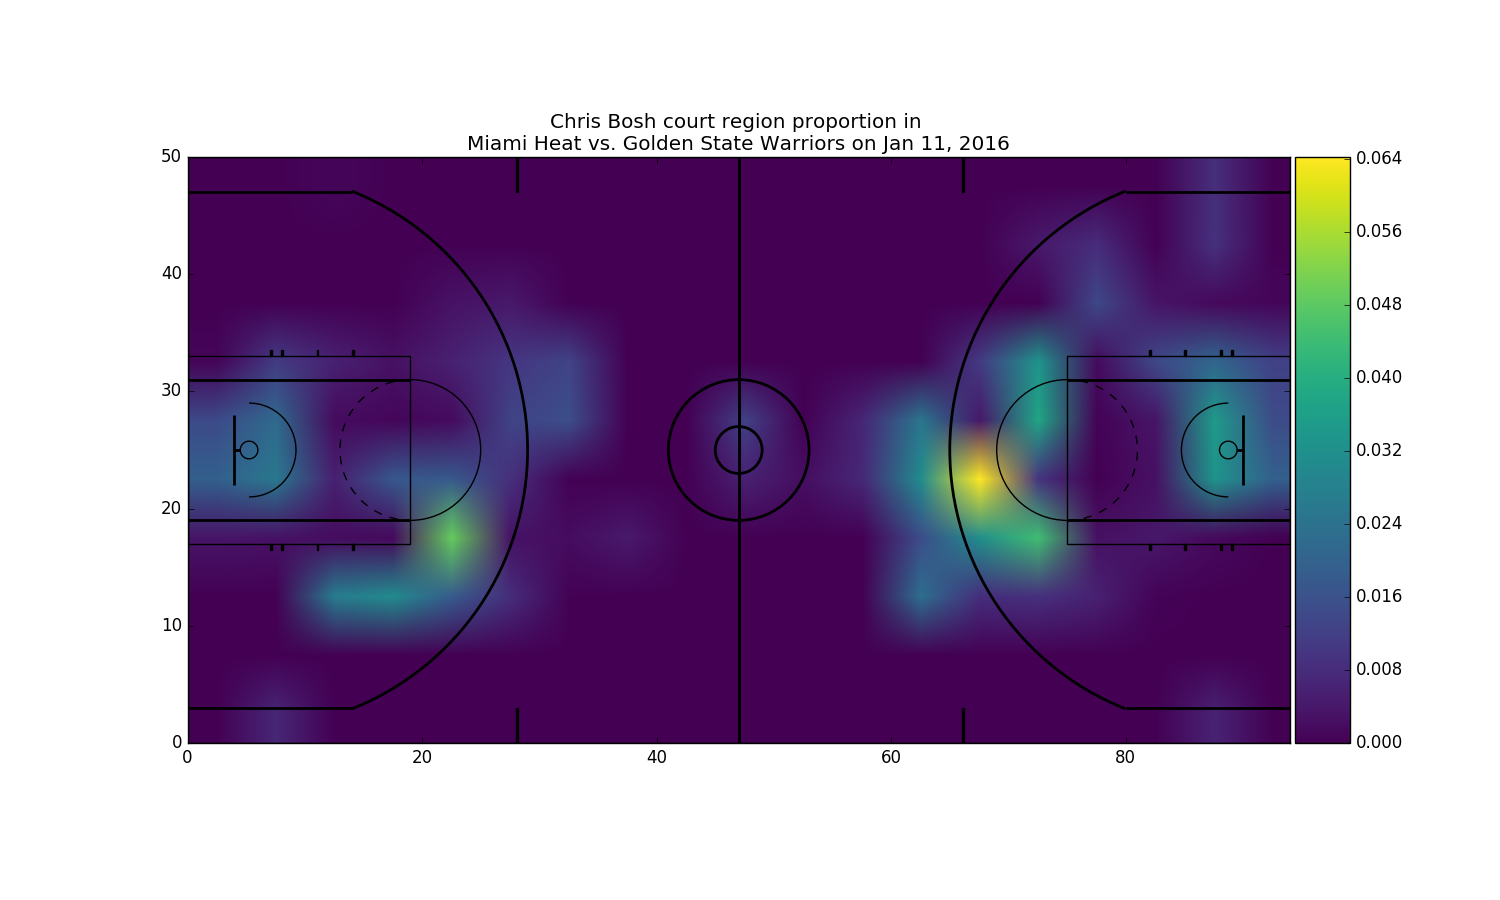
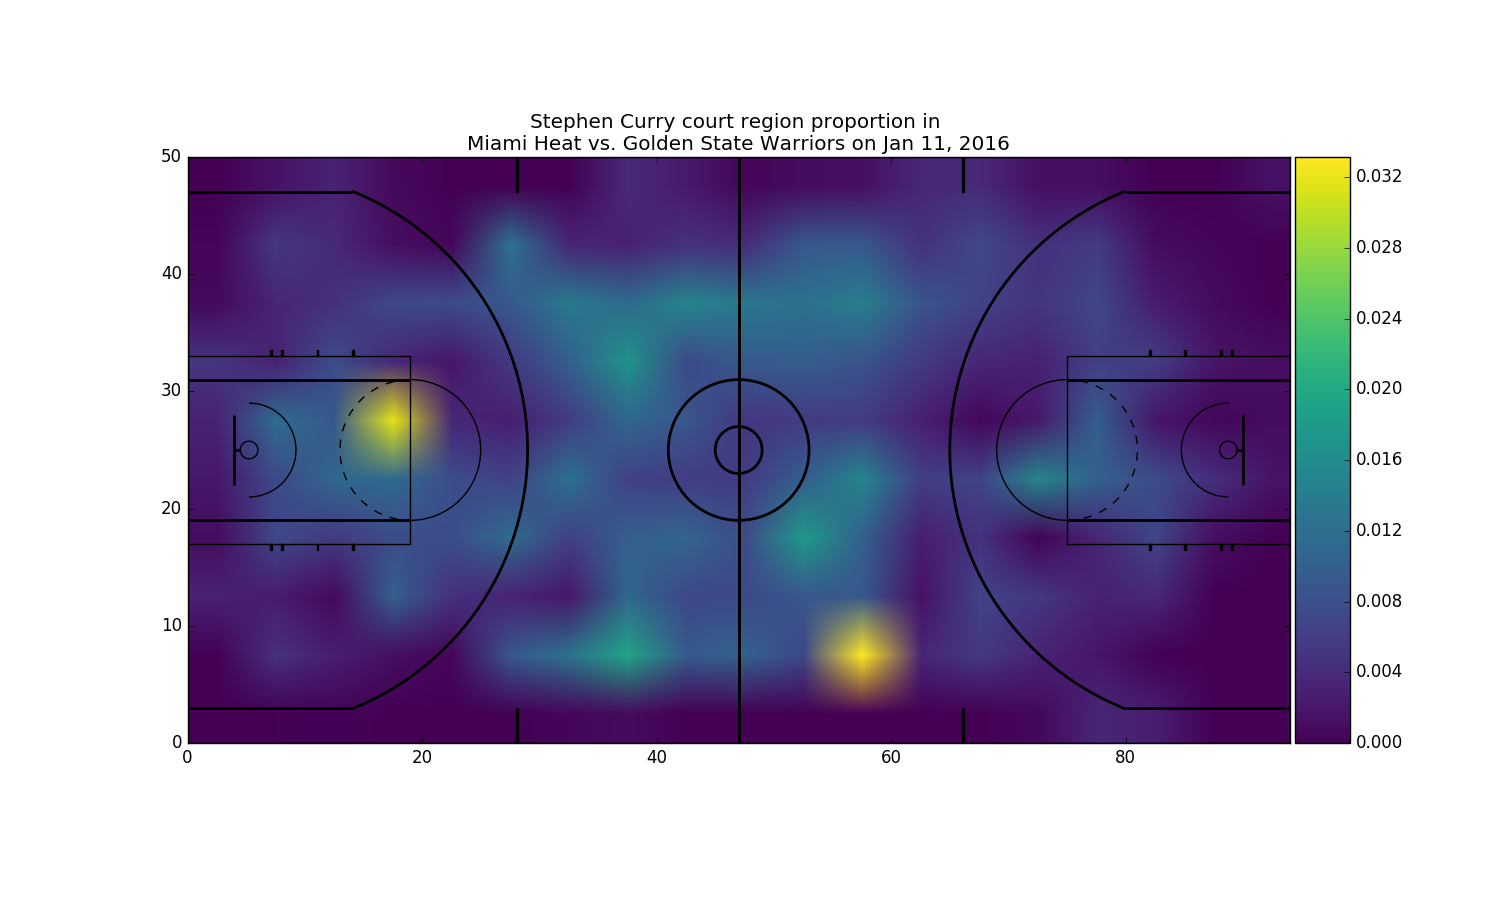
looked at different player heatmaps

diff --git a/triple_triple/plot_player_region_prob.py b/triple_triple/plot_player_region_prob.py
@@ -11,8 +11,8 @@ df_raw_position_data = get_df_raw_position_data()
 
 if __name__ == '__main__':
     game_id_list = [21500568]
-    player_id = 2547
-    team_id = 1610612748
+    player_id = 201939
+    team_id = 1610612744
 
     # get Chris Bosh locations when Miami Heat has ball
     df_player = df_raw_position_data.query('team_id==@team_id and dist_to_ball < 2').query('player_id==@player_id')
@@ -37,7 +37,7 @@ if __name__ == '__main__':
 
     im = ax.imshow(heatmap.T / heatmap.sum(), extent=extent, origin='lower', cmap='viridis')
     fig.colorbar(im, cax=cax, orientation='vertical')
-    ax.set_title('Chris Bosh court region proportion in \n' 'Miami Heat vs. Golden State Warriors on Jan 11, 2016')
+    ax.set_title('Stephen Curry court region proportion in \n' 'Miami Heat vs. Golden State Warriors on Jan 11, 2016')
 
     fig.savefig('player_region_prob_heatmap.png')
 
